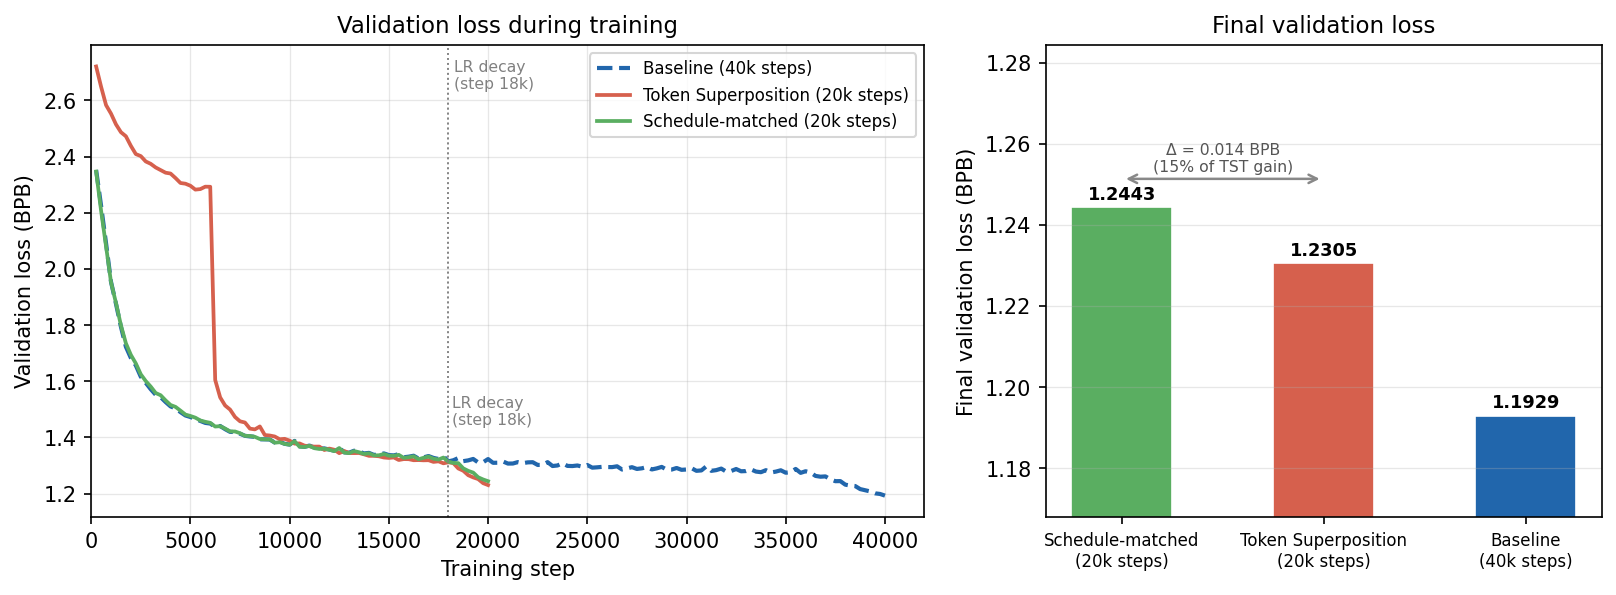
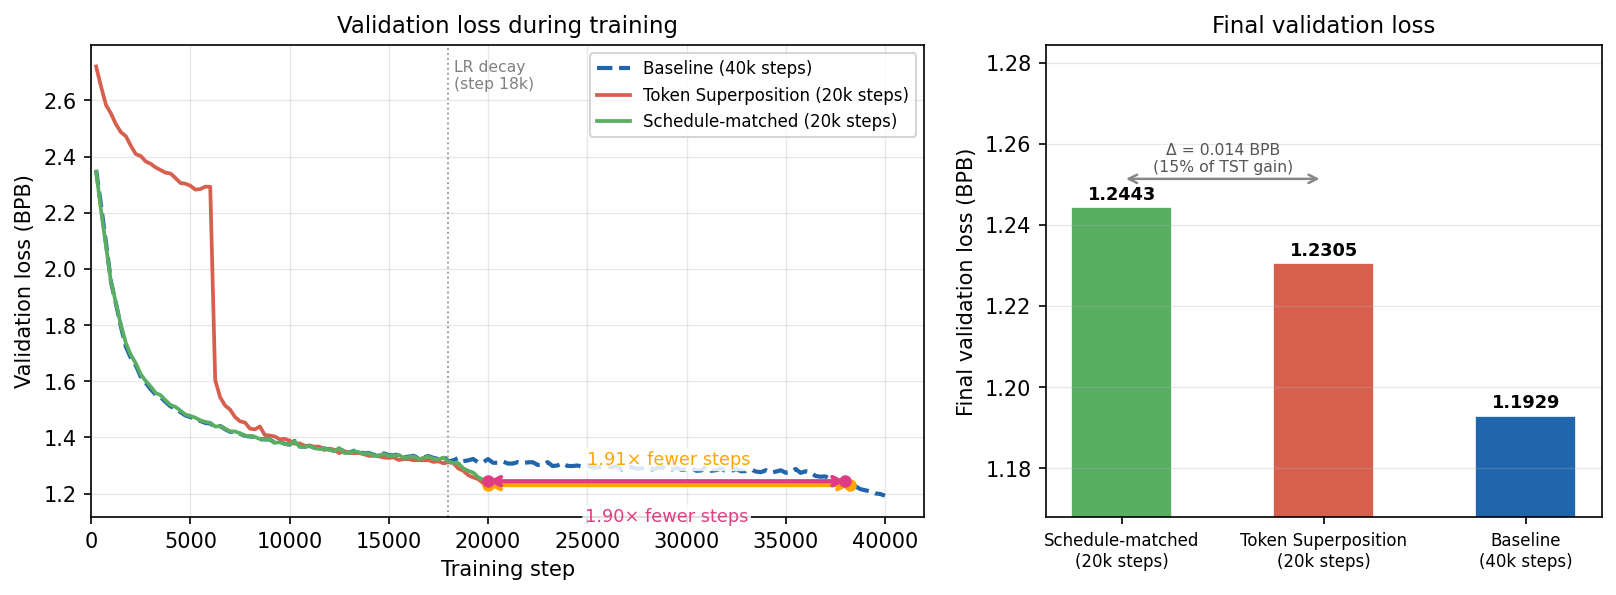
Add speedup arrows to front-page line plot
Yellow arrow: TST vs baseline speedup (matching isoloss plot style).
Pink arrow: schedule-matched vs baseline speedup.
Both show "X.XX× fewer steps" at the iso-loss level of each 20k run.

Changed region(s): [[0.2785, 0.7563, 0.526, 0.8773], [0.2785, 0.6655, 0.3403, 0.7261]]

diff --git a/scripts/front_page_figure.py b/scripts/front_page_figure.py
@@ -25,6 +25,9 @@ BAR_ORDER = [
     "Baseline (40k steps)",
 ]
 
+ARROW_COLOR_TST   = (1.0, 0.647059, 0.0)   # yellow — matches isoloss plots
+ARROW_COLOR_SCHED = (0.878, 0.235, 0.518)   # pink
+
 
 def fetch_val_curve(run_id: str):
     api = wandb.Api()
@@ -34,6 +37,34 @@ def fetch_val_curve(run_id: str):
              .sort_values("_step")
              .reset_index(drop=True))
     return df["_step"].to_numpy(), df["val/bpb"].to_numpy()
+
+
+def _add_speedup_arrow(ax, base_steps, base_bpb, query_end_step,
+                       query_end_bpb, color, label_above=True):
+    """Horizontal <-> arrow from query endpoint to baseline iso-loss step."""
+    # First baseline step where running-min bpb ≤ query_end_bpb
+    base_rmin = np.minimum.accumulate(base_bpb)
+    hits = np.where(base_rmin <= query_end_bpb)[0]
+    if len(hits) == 0:
+        return
+    base_iso_step = base_steps[hits[0]]
+
+    y     = query_end_bpb
+    ylo, yhi = ax.get_ylim()
+    dy    = (yhi - ylo) * 0.035
+    y_label = y + dy if label_above else y - dy * 1.6
+    mid_x = (query_end_step + base_iso_step) / 2
+    ratio = base_iso_step / query_end_step
+
+    ax.annotate("", xy=(query_end_step, y), xytext=(base_iso_step, y),
+                arrowprops=dict(arrowstyle="<->", color=color, lw=2.0,
+                                shrinkA=0, shrinkB=0))
+    ax.plot([query_end_step, base_iso_step], [y, y],
+            "o", color=color, markersize=5, zorder=5)
+    ax.text(mid_x, y_label, f"{ratio:.2f}× fewer steps",
+            ha="center", va="bottom" if label_above else "top",
+            fontsize=8.5, color=color,
+            bbox=dict(boxstyle="round,pad=0.15", fc="white", ec="none", alpha=0.85))
 
 
 def main():
@@ -56,11 +87,6 @@ def main():
         ls = "--" if label == "Baseline (40k steps)" else "-"
         ax_line.plot(steps, bpb, label=label, color=color, linewidth=lw, linestyle=ls)
 
-    # Mark the WSD decay horizon for the 20k runs
-    ax_line.axvline(18000, color="gray", linewidth=0.9, linestyle=":", alpha=0.8)
-    ax_line.text(18200, ax_line.get_ylim()[1] if ax_line.get_ylim()[1] < 2 else 1.55,
-                 "LR decay\n(step 18k)", fontsize=7.5, color="gray", va="top")
-
     ax_line.set_xlabel("Training step", fontsize=10)
     ax_line.set_ylabel("Validation loss (BPB)", fontsize=10)
     ax_line.set_title("Validation loss during training", fontsize=11)
@@ -68,7 +94,19 @@ def main():
     ax_line.grid(True, alpha=0.3, linewidth=0.6)
     ax_line.set_xlim(left=0)
 
-    # Re-draw the decay line after ylim is set
+    # Speedup arrows (drawn after ylim is set by plotted data)
+    base_steps, base_bpb, _ = curves["Baseline (40k steps)"]
+    tst_steps,  tst_bpb,  _ = curves["Token Superposition (20k steps)"]
+    sched_steps, sched_bpb, _ = curves["Schedule-matched (20k steps)"]
+
+    _add_speedup_arrow(ax_line, base_steps, base_bpb,
+                       tst_steps[-1], tst_bpb[-1],
+                       ARROW_COLOR_TST, label_above=True)
+    _add_speedup_arrow(ax_line, base_steps, base_bpb,
+                       sched_steps[-1], sched_bpb[-1],
+                       ARROW_COLOR_SCHED, label_above=False)
+
+    # Decay marker (re-drawn after ylim settled)
     ylo, yhi = ax_line.get_ylim()
     ax_line.axvline(18000, color="gray", linewidth=0.9, linestyle=":", alpha=0.8)
     ax_line.text(18300, ylo + (yhi - ylo) * 0.97,